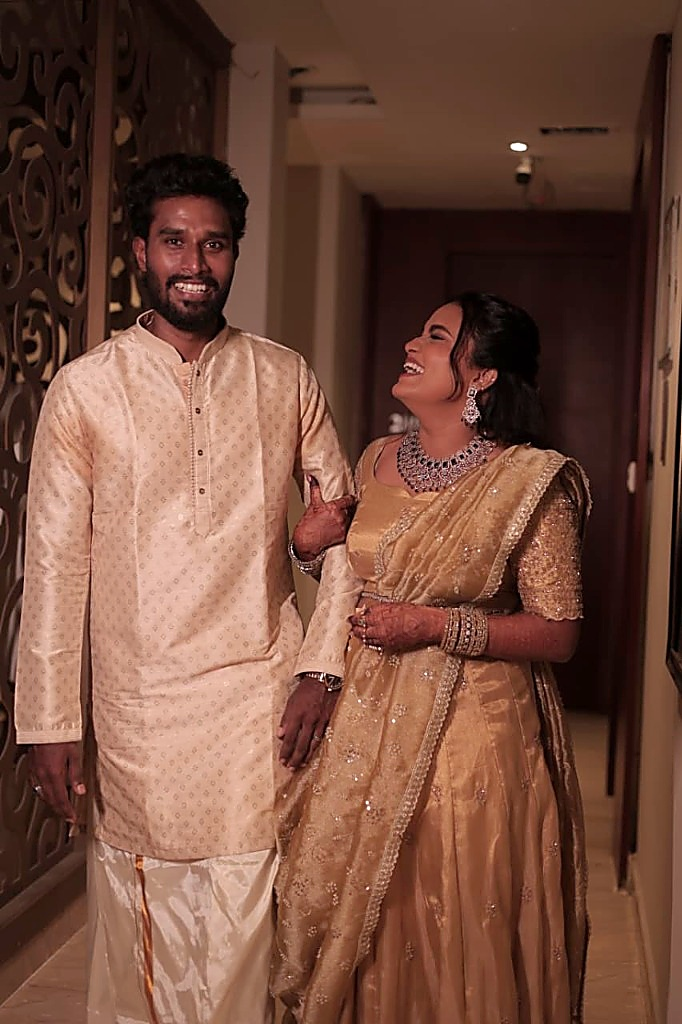
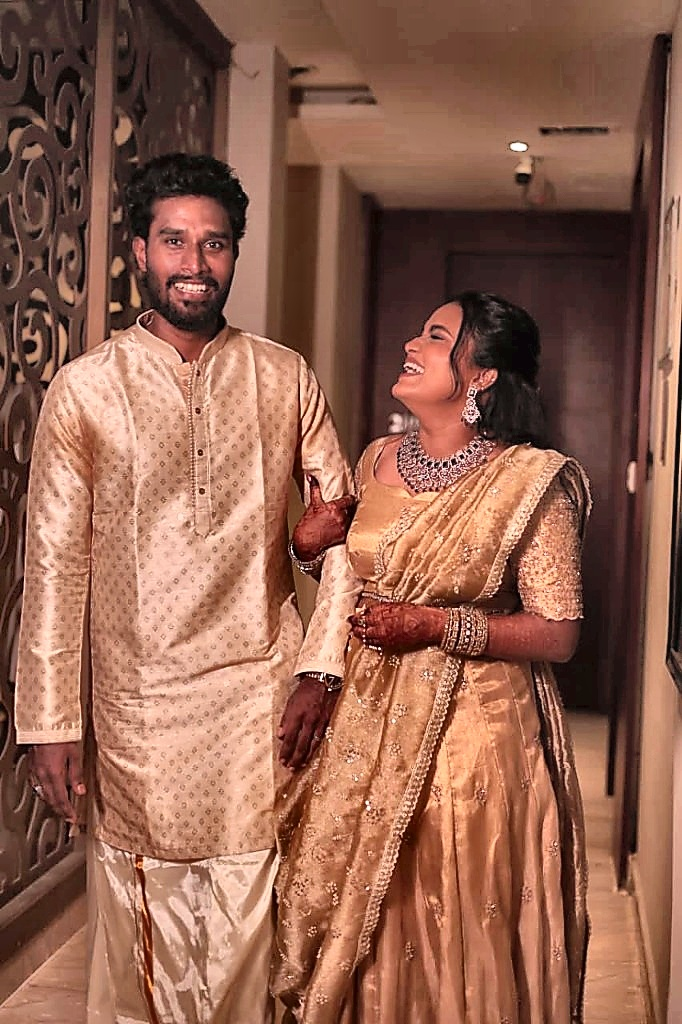
fix: unblock couple faces on hero, lighten photo shadows and gradients, remove video sound toggle

diff --git a/index.html b/index.html
@@ -137,24 +137,25 @@ body {
   flex-direction: column;
   justify-content: space-between;
   align-items: center;
-  background: url('img/couple_real.jpg') center 12% / cover no-repeat;
+  background: url('img/couple_real.jpg') center top / cover no-repeat;
   color: #fff;
   text-align: center;
-  padding: 22px 20px 16px;
+  padding: 22px 20px 14px;
   overflow: hidden;
 }
 
-/* Atmospheric warm shading for maximum readability over couple photo */
+/* Atmospheric warm shading — Crystal clear over faces, soft contrast at bottom */
 .hero-palace-gate::before {
   content: '';
   position: absolute;
   inset: 0;
   background: linear-gradient(
     180deg,
-    rgba(18, 8, 5, 0.68) 0%,
-    rgba(18, 8, 5, 0.20) 26%,
-    rgba(18, 8, 5, 0.40) 58%,
-    rgba(18, 8, 5, 0.90) 100%
+    rgba(18, 8, 5, 0.25) 0%,
+    rgba(18, 8, 5, 0.0) 16%,
+    rgba(18, 8, 5, 0.0) 50%,
+    rgba(18, 8, 5, 0.45) 72%,
+    rgba(18, 8, 5, 0.85) 100%
   );
   pointer-events: none;
 }
@@ -189,44 +190,44 @@ body {
   100% { transform: translateY(115vh) rotate(360deg) scale(1.1); opacity: 0; }
 }
 
-/* Center Wedding Invitation Calligraphy */
+/* Center Wedding Invitation Calligraphy (Positioned gracefully in lower third, completely unblocking faces) */
 .gate-center-content {
   position: relative;
   z-index: 3;
-  margin: auto 0;
-  padding: 14px 16px;
-  background: radial-gradient(ellipse at center, rgba(18, 8, 5, 0.42) 0%, rgba(18, 8, 5, 0) 78%);
-  border-radius: 20px;
+  margin-top: auto;
+  margin-bottom: 6px;
+  padding: 0 12px;
+  background: transparent;
   border: none;
   box-shadow: none;
   backdrop-filter: none;
 }
 .gate-inv-subtitle {
   font-family: 'Cinzel', serif;
-  font-size: 11px;
+  font-size: 9.5px;
   font-weight: 600;
-  letter-spacing: 0.32em;
+  letter-spacing: 0.26em;
   color: #FFFFFF;
   text-transform: uppercase;
-  line-height: 1.8;
-  margin-bottom: 12px;
-  text-shadow: 0 2px 14px rgba(0,0,0,0.9), 0 1px 4px rgba(0,0,0,0.95);
+  line-height: 1.6;
+  margin-bottom: 6px;
+  text-shadow: 0 2px 10px rgba(0,0,0,0.85), 0 1px 3px rgba(0,0,0,0.95);
 }
 .gate-script-names {
   font-family: 'Pinyon Script', cursive;
-  font-size: clamp(62px, 17vw, 84px);
+  font-size: clamp(44px, 12.5vw, 58px);
   color: #FFFFFF;
-  line-height: 0.95;
+  line-height: 1.0;
   display: block;
-  text-shadow: 0 4px 24px rgba(0,0,0,0.95), 0 2px 6px rgba(0,0,0,0.95);
+  text-shadow: 0 3px 18px rgba(0,0,0,0.9), 0 1px 4px rgba(0,0,0,0.95);
 }
 .gate-script-amp {
   font-family: 'Cinzel', serif;
-  font-size: 24px;
+  font-size: 18px;
   color: var(--gold-light);
   display: block;
-  margin: 4px 0 2px;
-  text-shadow: 0 2px 10px rgba(0,0,0,0.9);
+  margin: 2px 0 0;
+  text-shadow: 0 2px 8px rgba(0,0,0,0.85);
 }
 
 /* Bottom "Let's Celebrate" Cue */
@@ -456,51 +457,6 @@ body {
   z-index: 5;
   pointer-events: none;
   display: block;
-}
-
-/* Luxury Floating Sound Controller Badge */
-.video-sound-toggle {
-  position: absolute;
-  bottom: 24px;
-  right: 18px;
-  z-index: 10;
-  background: rgba(18, 8, 5, 0.75);
-  backdrop-filter: blur(8px);
-  -webkit-backdrop-filter: blur(8px);
-  border: 1px solid rgba(235, 213, 160, 0.55);
-  border-radius: 30px;
-  padding: 7px 14px;
-  display: inline-flex;
-  align-items: center;
-  gap: 6px;
-  color: #FFF2D1;
-  font-family: 'Montserrat', sans-serif;
-  font-size: 9.5px;
-  font-weight: 600;
-  letter-spacing: 0.18em;
-  text-transform: uppercase;
-  cursor: pointer;
-  box-shadow: 0 4px 14px rgba(0, 0, 0, 0.35);
-  transition: all 0.22s ease;
-  -webkit-tap-highlight-color: transparent;
-}
-.video-sound-toggle:active {
-  transform: scale(0.94);
-  background: var(--maroon);
-  border-color: var(--gold);
-}
-@media (hover: hover) {
-  .video-sound-toggle:hover {
-    background: var(--maroon);
-    border-color: var(--gold);
-    transform: translateY(-2px);
-  }
-}
-.v-sound-icon {
-  font-size: 11px;
-}
-.v-sound-text {
-  letter-spacing: 0.16em;
 }
 
 /* Play/Pause overlay when paused */
@@ -1724,18 +1680,6 @@ body {
         Your browser does not support the video tag.
       </video>
 
-      <!-- Luxury Floating Sound Controller Badge -->
-      <button
-        type="button"
-        id="videoSoundBtn"
-        class="video-sound-toggle"
-        onclick="toggleVideoSound(event)"
-        aria-label="Toggle sound"
-      >
-        <span id="videoSoundIcon" class="v-sound-icon">🔇</span>
-        <span id="videoSoundText" class="v-sound-text">Sound Off</span>
-      </button>
-
       <!-- Play/Pause Overlay when paused -->
       <div id="videoPlayOverlay" class="video-play-overlay" onclick="toggleVideoPlay()">
         <div class="video-play-circle">
@@ -2198,12 +2142,12 @@ function showToast(msg) {
    COUPLE WEDDING VIDEO CONTROLLER
    ═══════════════════════════════════════ */
 const coupleVideo = document.getElementById('coupleVideo');
-const videoSoundBtn = document.getElementById('videoSoundBtn');
-const videoSoundIcon = document.getElementById('videoSoundIcon');
-const videoSoundText = document.getElementById('videoSoundText');
 const videoPlayOverlay = document.getElementById('videoPlayOverlay');
 
 if (coupleVideo) {
+  // Ensure video stays muted and plays seamlessly on mobile
+  coupleVideo.muted = true;
+
   // Autoplay video on scroll into view
   const vidObserver = new IntersectionObserver((entries) => {
     entries.forEach(entry => {
@@ -2230,23 +2174,6 @@ function toggleVideoPlay() {
   } else {
     coupleVideo.pause();
     if (videoPlayOverlay) videoPlayOverlay.classList.add('show');
-  }
-}
-
-function toggleVideoSound(e) {
-  if (e) e.stopPropagation();
-  if (!coupleVideo) return;
-  coupleVideo.muted = !coupleVideo.muted;
-  if (coupleVideo.muted) {
-    if (videoSoundIcon) videoSoundIcon.textContent = '🔇';
-    if (videoSoundText) videoSoundText.textContent = 'Sound Off';
-  } else {
-    if (videoSoundIcon) videoSoundIcon.textContent = '🔊';
-    if (videoSoundText) videoSoundText.textContent = 'Sound On';
-    if (coupleVideo.paused) {
-      coupleVideo.play();
-      if (videoPlayOverlay) videoPlayOverlay.classList.remove('show');
-    }
   }
 }
 
